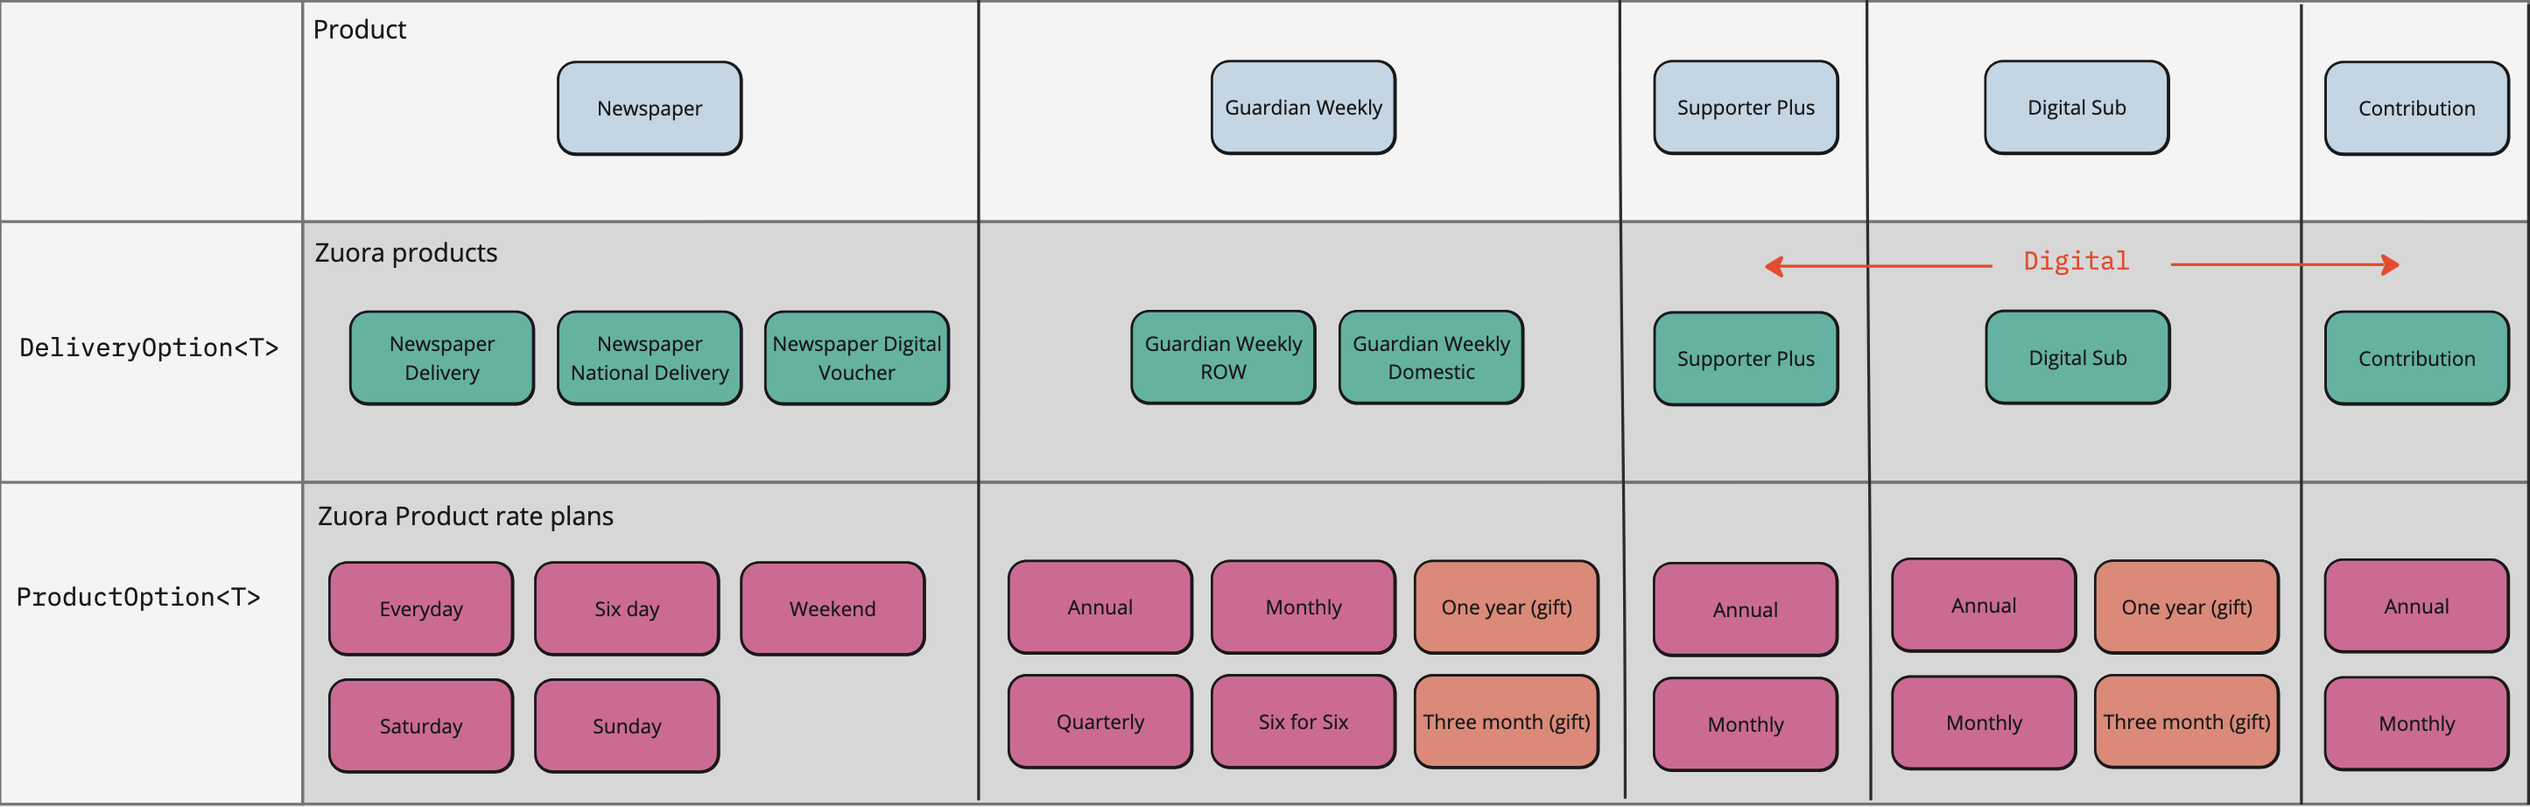
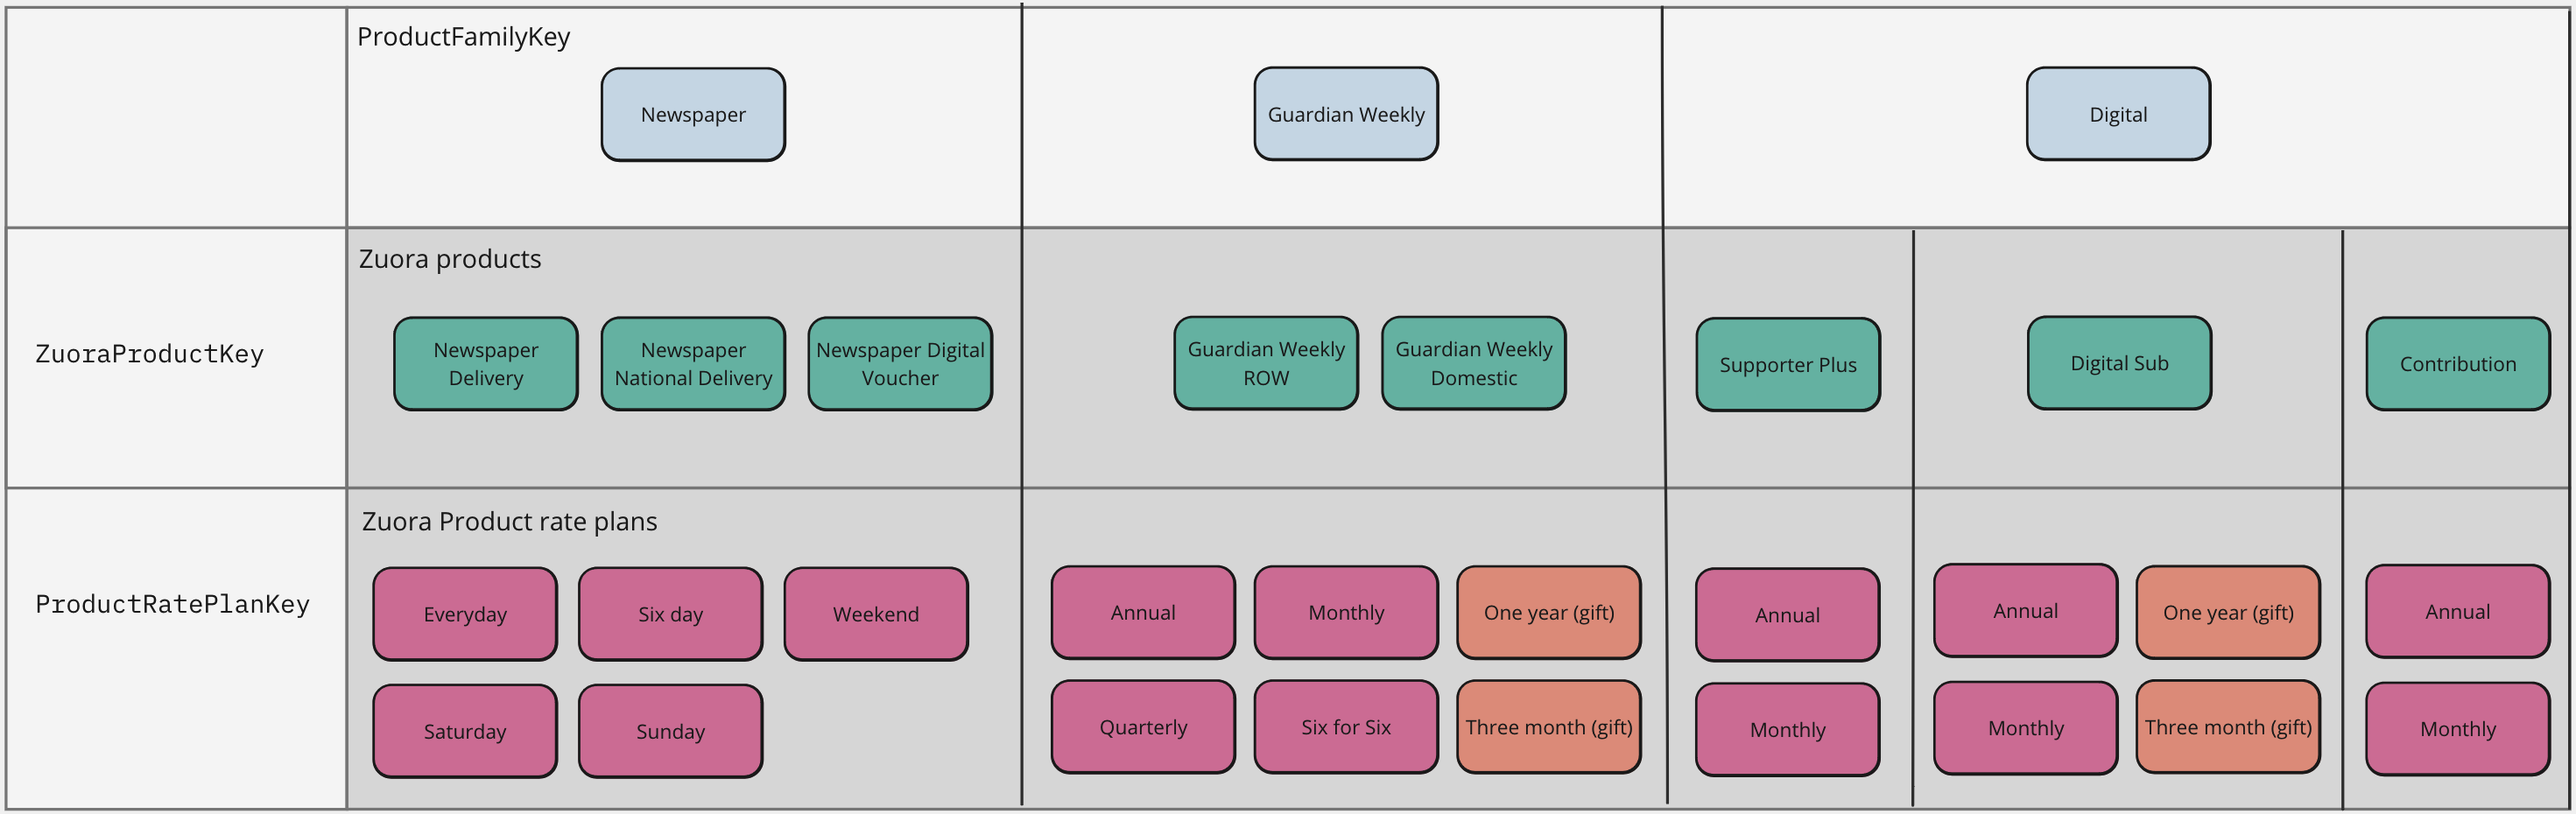
Generate types from mapping object

diff --git a/modules/product/src/productCatalogMapping.ts b/modules/product/src/productCatalogMapping.ts
@@ -1,29 +1,7 @@
-import { checkDefined } from '@modules/nullAndUndefined';
-import type {
-	ProductDetails,
-	ProductFamily,
-	ProductRatePlan,
-	ZuoraProduct,
-} from '@modules/product/productFamily';
-import {
-	productFamilies,
-	productRatePlansForProductFamily,
-	zuoraProductsForProductFamily,
-} from '@modules/product/productFamily';
 import type { Stage } from '@modules/stage';
 
-export type ProductToCatalogMapping = {
-	[P in ProductFamily]: {
-		[DO in ZuoraProduct<P>]: {
-			[PO in ProductRatePlan<P>]: { productRatePlanId: string };
-		};
-	};
-};
-
-const productOptionNotAvailable =
-	'Product option not available for this product';
-const codeProductToCatalogMapping: ProductToCatalogMapping = {
-	DigitalSubscription: {
+const codeMapping = {
+	Digital: {
 		DigitalSubscription: {
 			Monthly: {
 				productRatePlanId: '2c92c0f84bbfec8b014bc655f4852d9d',
@@ -38,8 +16,6 @@ const codeProductToCatalogMapping: ProductToCatalogMapping = {
 				productRatePlanId: '2c92c0f8778bf8f60177915b477714aa',
 			},
 		},
-	},
-	SupporterPlus: {
 		SupporterPlus: {
 			Monthly: {
 				productRatePlanId: '8ad08cbd8586721c01858804e3275376',
@@ -48,8 +24,6 @@ const codeProductToCatalogMapping: ProductToCatalogMapping = {
 				productRatePlanId: '8ad08e1a8586721801858805663f6fab',
 			},
 		},
-	},
-	Contribution: {
 		Contribution: {
 			Monthly: {
 				productRatePlanId: '2c92c0f85a6b134e015a7fcd9f0c7855',
@@ -112,12 +86,6 @@ const codeProductToCatalogMapping: ProductToCatalogMapping = {
 			Weekend: {
 				productRatePlanId: '8ad096ca8992481d018992a36256175e',
 			},
-			Sunday: {
-				productRatePlanId: productOptionNotAvailable,
-			},
-			Saturday: {
-				productRatePlanId: productOptionNotAvailable,
-			},
 		},
 		HomeDelivery: {
 			Everyday: {
@@ -156,8 +124,8 @@ const codeProductToCatalogMapping: ProductToCatalogMapping = {
 	},
 };
 
-const prodProductToCatalogMapping: ProductToCatalogMapping = {
-	DigitalSubscription: {
+const prodMapping = {
+	Digital: {
 		DigitalSubscription: {
 			Monthly: {
 				productRatePlanId: '2c92a0fb4edd70c8014edeaa4eae220a',
@@ -172,8 +140,6 @@ const prodProductToCatalogMapping: ProductToCatalogMapping = {
 				productRatePlanId: '2c92a00d779932ef0177a65430d30ac1',
 			},
 		},
-	},
-	SupporterPlus: {
 		SupporterPlus: {
 			Monthly: {
 				productRatePlanId: '8a128ed885fc6ded018602296ace3eb8',
@@ -182,8 +148,6 @@ const prodProductToCatalogMapping: ProductToCatalogMapping = {
 				productRatePlanId: '8a128ed885fc6ded01860228f77e3d5a',
 			},
 		},
-	},
-	Contribution: {
 		Contribution: {
 			Monthly: {
 				productRatePlanId: '2c92a0fc5aacfadd015ad24db4ff5e97',
@@ -246,12 +210,6 @@ const prodProductToCatalogMapping: ProductToCatalogMapping = {
 			Weekend: {
 				productRatePlanId: '8a12999f8a268c57018a27ebe868150c',
 			},
-			Sunday: {
-				productRatePlanId: productOptionNotAvailable,
-			},
-			Saturday: {
-				productRatePlanId: productOptionNotAvailable,
-			},
 		},
 		HomeDelivery: {
 			Everyday: {
@@ -289,54 +247,64 @@ const prodProductToCatalogMapping: ProductToCatalogMapping = {
 		},
 	},
 };
+const mappingsForStage = (stage: Stage) =>
+	stage === 'CODE' ? codeMapping : prodMapping;
 
-export const mappingsByStage = {
-	CODE: codeProductToCatalogMapping,
-	PROD: prodProductToCatalogMapping,
-};
+type ProductFamilyKey = keyof typeof prodMapping;
+type ZuoraProductKey<PF extends ProductFamilyKey> =
+	keyof (typeof prodMapping)[PF];
+type ProductRatePlanKey<
+	PF extends ProductFamilyKey,
+	ZP extends ZuoraProductKey<PF>,
+> = keyof (typeof prodMapping)[PF][ZP];
+type ProductRatePlanObject = { productRatePlanId: string };
 
-export const getProductRatePlanId = <T extends ProductFamily>(
+export const getProductRatePlanId = <
+	P extends ProductFamilyKey,
+	ZP extends ZuoraProductKey<P>,
+	PRP extends ProductRatePlanKey<P, ZP>,
+>(
 	stage: Stage,
-	productFamily: T,
-	zuoraProduct: ZuoraProduct<T>,
-	productRatePlan: ProductRatePlan<T>,
+	productFamily: P,
+	zuoraProduct: ZP,
+	productRatePlan: PRP,
 ) => {
-	const stageMappings = mappingsByStage[stage];
-	const productMappings =
-		stageMappings[productFamily][zuoraProduct][productRatePlan];
-	return checkDefined(
-		productMappings.productRatePlanId,
-		`No product rate plan id found for product family ${productFamily} zuora product ${zuoraProduct} product rate plan ${productRatePlan}`,
-	);
+	const productRatePlanObject = mappingsForStage(stage)[productFamily][
+		zuoraProduct
+	][productRatePlan] as ProductRatePlanObject;
+	return productRatePlanObject.productRatePlanId;
 };
 
-export const getAllProductDetails = (stage: Stage): ProductDetails[] =>
-	productFamilies.flatMap((productFamily) => {
-		const productRatePlans = productRatePlansForProductFamily[productFamily];
-		return zuoraProductsForProductFamily[productFamily].flatMap(
-			(zuoraProduct) =>
-				productRatePlans
-					.flatMap((productRatePlan) => {
-						const productRatePlanId = getProductRatePlanId(
-							stage,
-							productFamily,
-							zuoraProduct,
-							productRatePlan,
-						);
-						return {
-							productFamily,
-							zuoraProduct,
-							productRatePlan,
-							productRatePlanId,
-						};
-					})
-					.filter(
-						(productDetails) =>
-							productDetails.productRatePlanId !== productOptionNotAvailable,
-					),
-		);
+export const getAllProductDetails = (stage: Stage) => {
+	const stageMapping = mappingsForStage(stage);
+	const keys = Object.keys(stageMapping) as Array<keyof typeof stageMapping>;
+	return keys.flatMap((productFamily) => {
+		const productFamilyObject = stageMapping[productFamily];
+		const zuoraProductKeys = Object.keys(productFamilyObject) as Array<
+			keyof typeof productFamilyObject
+		>;
+		return zuoraProductKeys.flatMap((zuoraProduct) => {
+			const zuoraProductObject = productFamilyObject[zuoraProduct];
+			const productRatePlanKeys = Object.keys(zuoraProductObject) as Array<
+				keyof typeof zuoraProductObject
+			>;
+			return productRatePlanKeys.flatMap((productRatePlan) => {
+				const productRatePlanId = getProductRatePlanId(
+					stage,
+					productFamily,
+					zuoraProduct,
+					productRatePlan,
+				);
+				return {
+					productFamily,
+					zuoraProduct,
+					productRatePlan,
+					productRatePlanId: productRatePlanId,
+				};
+			});
+		});
 	});
-
+};
 export const findProductDetails = (stage: Stage, productRatePlanId: string) => {
 	const allProducts = getAllProductDetails(stage);
 	return allProducts.find(

diff --git a/modules/product/test/productCatalogMapping.test.ts b/modules/product/test/productCatalogMapping.test.ts
@@ -4,20 +4,21 @@ import {
 	findProductDetails,
 	getAllProductDetails,
 	getProductRatePlanId,
-} from '@modules/product/productToCatalogMapping';
+} from '@modules/product/productCatalogMapping';
 import type { Stage } from '@modules/stage';
 import codeCatalog from '../../catalog/test/fixtures/catalog-code.json';
 import prodCatalog from '../../catalog/test/fixtures/catalog-prod.json';
 
 test('We can find a product rate plan from product details', () => {
 	expect(
-		getProductRatePlanId('CODE', 'SupporterPlus', 'SupporterPlus', 'Monthly'),
+		getProductRatePlanId('CODE', 'Digital', 'SupporterPlus', 'Monthly'),
 	).toBe('8ad08cbd8586721c01858804e3275376');
 });
+
 test('We can find product details from a productRatePlanId', () => {
 	const productRatePlanId = '2c92c0f84bbfec8b014bc655f4852d9d';
 	expect(findProductDetails('CODE', productRatePlanId)).toStrictEqual({
-		productFamily: 'DigitalSubscription',
+		productFamily: 'Digital',
 		zuoraProduct: 'DigitalSubscription',
 		productRatePlan: 'Monthly',
 		productRatePlanId,

diff --git a/modules/product/README.md b/modules/product/README.md
@@ -2,46 +2,69 @@
 This module defines a model to describe our product structure and the mapping between that structure and the Zuora catalog which holds pricing information.
 
 There are three main types involved in our product definitions:
-## `Product` 
-This represents a product which we sell, available values are 
-- `Guardian Weekly`
+## `ProductFamilyKey` 
+This represents a family or category of products which we sell, available values are 
+- `GuardianWeekly`
 - `Newspaper`
-- `Supporter Plus`
-- `DigitalSubscription`
-- `Contribution`
-## `DeliveryOption`
-This represents the method of delivery of a particular product, it is of most relevance to Newspaper and Guardian Weekly which have the available values of 
-### Newspaper:
+- `Digital`
+## `ZuoraProductKey`
+This maps onto a particular product defined in the Zuora catalog. Each ZuoraProductKey belongs to a product family so it is a generic type: 
+```typescript
+type ZuoraProductKey<PF extends ProductFamilyKey>
+``` 
+available values for each product family key are:
+#### Newspaper:
 - `NationalDelivery`
 - `HomeDelivery`
 - `SubscriptionCard`
-### Guardian Weekly
+#### GuardianWeekly
 - `Domestic`
 - `RestOfWorld`
+#### Digital
+- `DigitalSubscription`
+- `SupporterPlus`
+- `Contribution`
 
-For digital only products (Supporter Plus, DigitalSubscription and Contribution) this value will always be `Digital`
-## `ProductOption`
-This describes specific varieties or flavours of a product. For example Newspaper has the following product options:
-- `Saturday`
-- `Sunday`
-- `Weekend`
-- `Sixday`
-- `Everyday`
-                                                       
-DigitalSubscription has:
-- `Monthly`
-- `Annual`
-- `OneYearGift`
-- `ThreeMonthGift`
+## `ProductRatePlanKey`
+This maps to an individual product rate plan. Each ProductRatePlanKey belongs to a specific product family and zuora product so it is also a generic type with the signature:
+```typescript
+type ProductRatePlanKey<
+	PF extends ProductFamilyKey,
+	ZP extends ZuoraProductKey<PF>,
+>
+```
+Examples of product options for particular product families and Zuora products are:
+
+#### Newspaper
+- `HomeDelivery`
+  - `Saturday`
+  - `Sunday`
+  - `Weekend`
+  - `Sixday`
+  - `Everyday`
+- `NationalDelivery`
+  - `Weekend`
+  - `Sixday`
+  - `Everyday` // National delivery doesn't have a Saturday and Sunday option
+
+#### Digital
+- `DigitalSubscription`
+  - `Monthly`
+  - `Annual`
+  - `OneYearGift`
+  - `ThreeMonthGift`
+- `SupporterPlus`
+  - `Monthly`
+  - `Annual`
 
 This diagram shows the mapping between this type model and the Zuora catalog:
 
 ![product-model-to-zuora.png](product-model-to-zuora.png)
 # Usage
-By providing a `Product`, `DeliveryOption` and `ProductOption` we can map to any [product rate plan](https://knowledgecenter.zuora.com/Zuora_Central_Platform/API/G_SOAP_API/E1_SOAP_API_Object_Reference/ProductRatePlan) in the Zuora catalog and from that we can retrieve the pricing information for that particular configuration. For instance if I want to find the GBP price to get the Newspaper delivered on a Saturday I can use the following:
+By providing a `ProductFamilyKey`, `ZuoraProductKey` and `ProductRatePlanKey` we can map to any [product rate plan](https://knowledgecenter.zuora.com/Zuora_Central_Platform/API/G_SOAP_API/E1_SOAP_API_Object_Reference/ProductRatePlan) in the Zuora catalog and from that we can retrieve the pricing information for that particular configuration. For instance if I want to find the GBP price to get the Newspaper delivered on a Saturday I can use the following:
 ```typescript
 import { getZuoraCatalog } from '@modules/catalog/catalog';
-import { getProductRatePlanId } from '@modules/product/productToCatalogMapping';
+import { getProductRatePlanId } from '@modules/product/productCatalogMapping';
 
 const stage = 'CODE';
 const catalog = await getZuoraCatalog(stage);
@@ -58,7 +81,7 @@ const price = catalog.getCatalogPrice(productRatePlanId, 'GBP');
 ```
 
 ## Implementation
-`Product` is defined as a union type, `DeliveryOption` and `ProductOption` are generic types which take a type parameter specifying the product they are valid for, this ensures that we only use options which are appropriate for the given product
+`ProductFamilyKey` is defined as a union type, `ZuoraProductKey` and `ProductRatePlanKey` are generic types which take type parameters specifying the product they are valid for, this ensures that we only use options which are appropriate for the given product
 
 ```typescript
 import {getProductRatePlanId} from "./productToCatalogMapping";
@@ -66,7 +89,7 @@ import {getProductRatePlanId} from "./productToCatalogMapping";
 const productRatePlanId = getProductRatePlanId(
     'CODE',
     'GuardianWeekly',
-    'Digital', // TS2345: Argument of type "Digital" is not assignable to parameter of type "RestOfWorld" | "Domestic"
+    'HomeDelivery', // TS2345: Argument of type "Digital" is not assignable to parameter of type "RestOfWorld" | "Domestic"
     'Monthly',
 );
 ```
